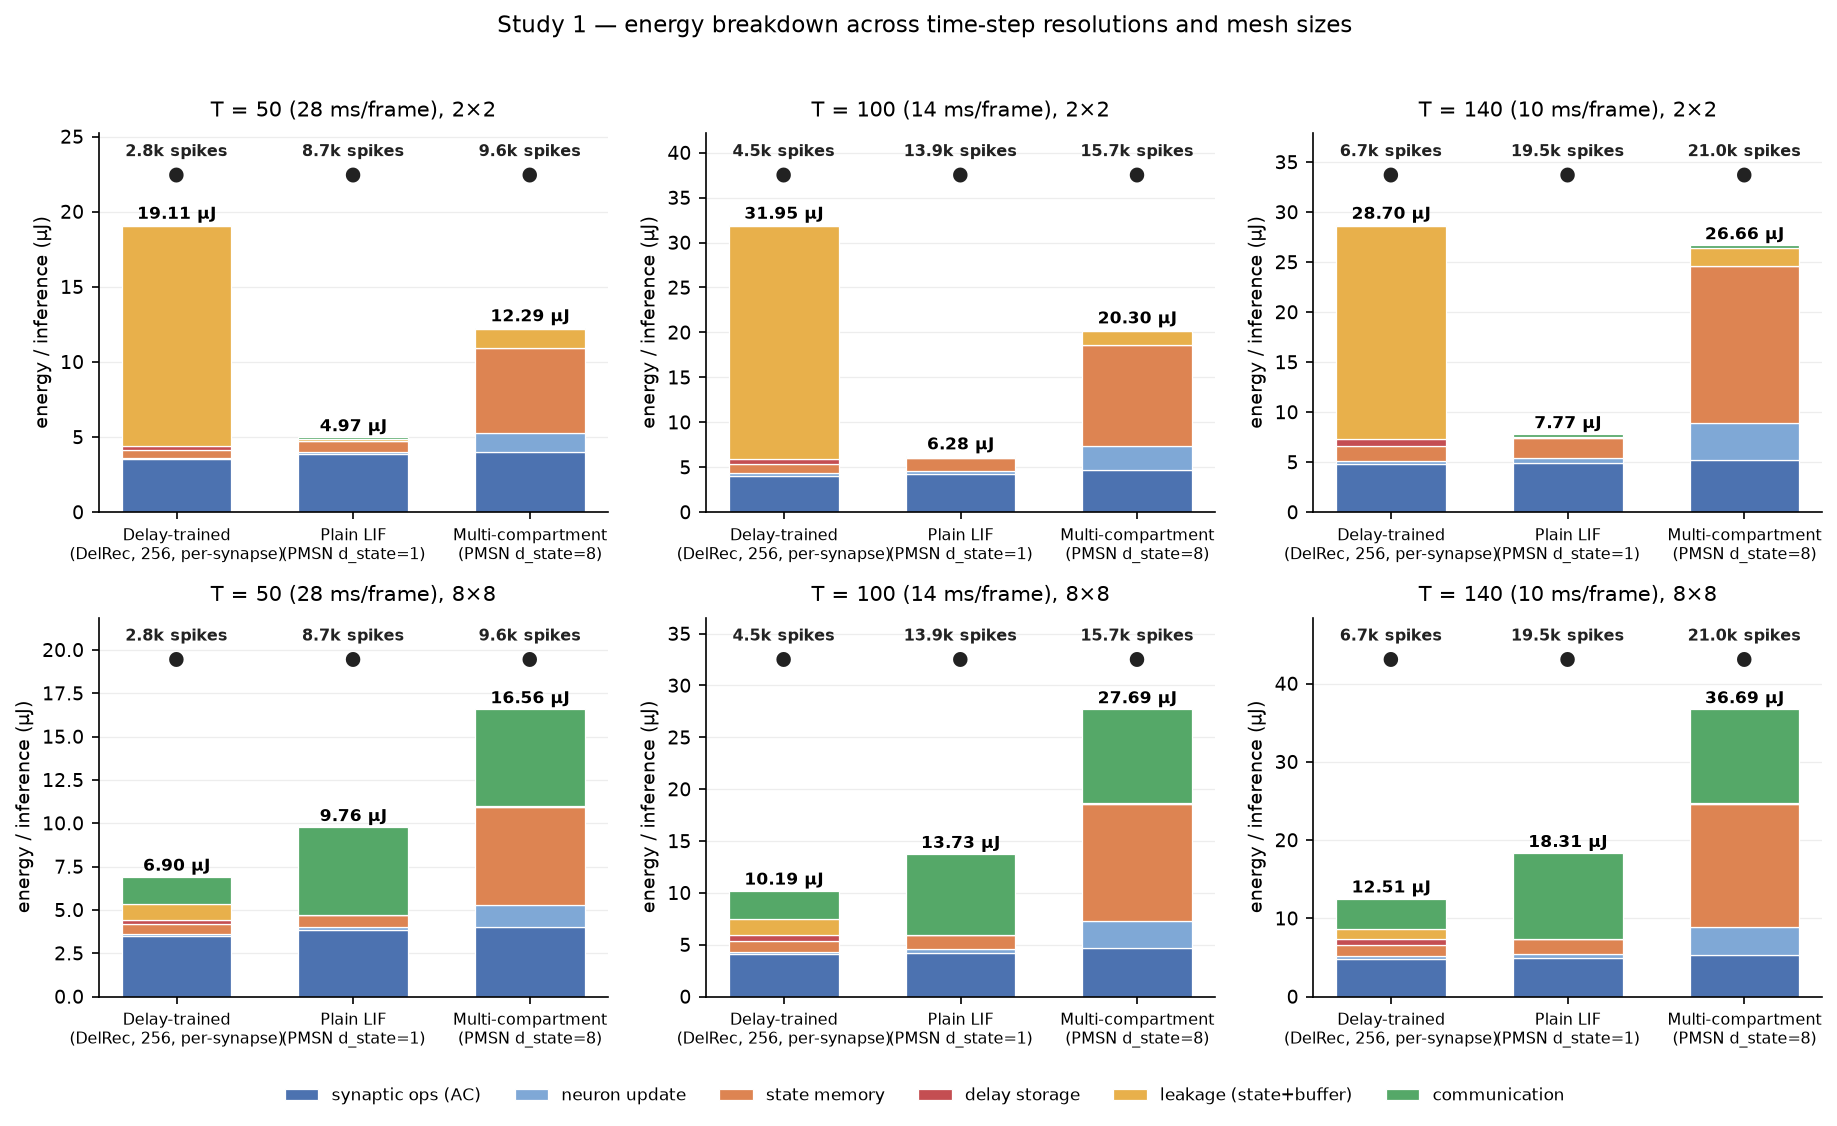
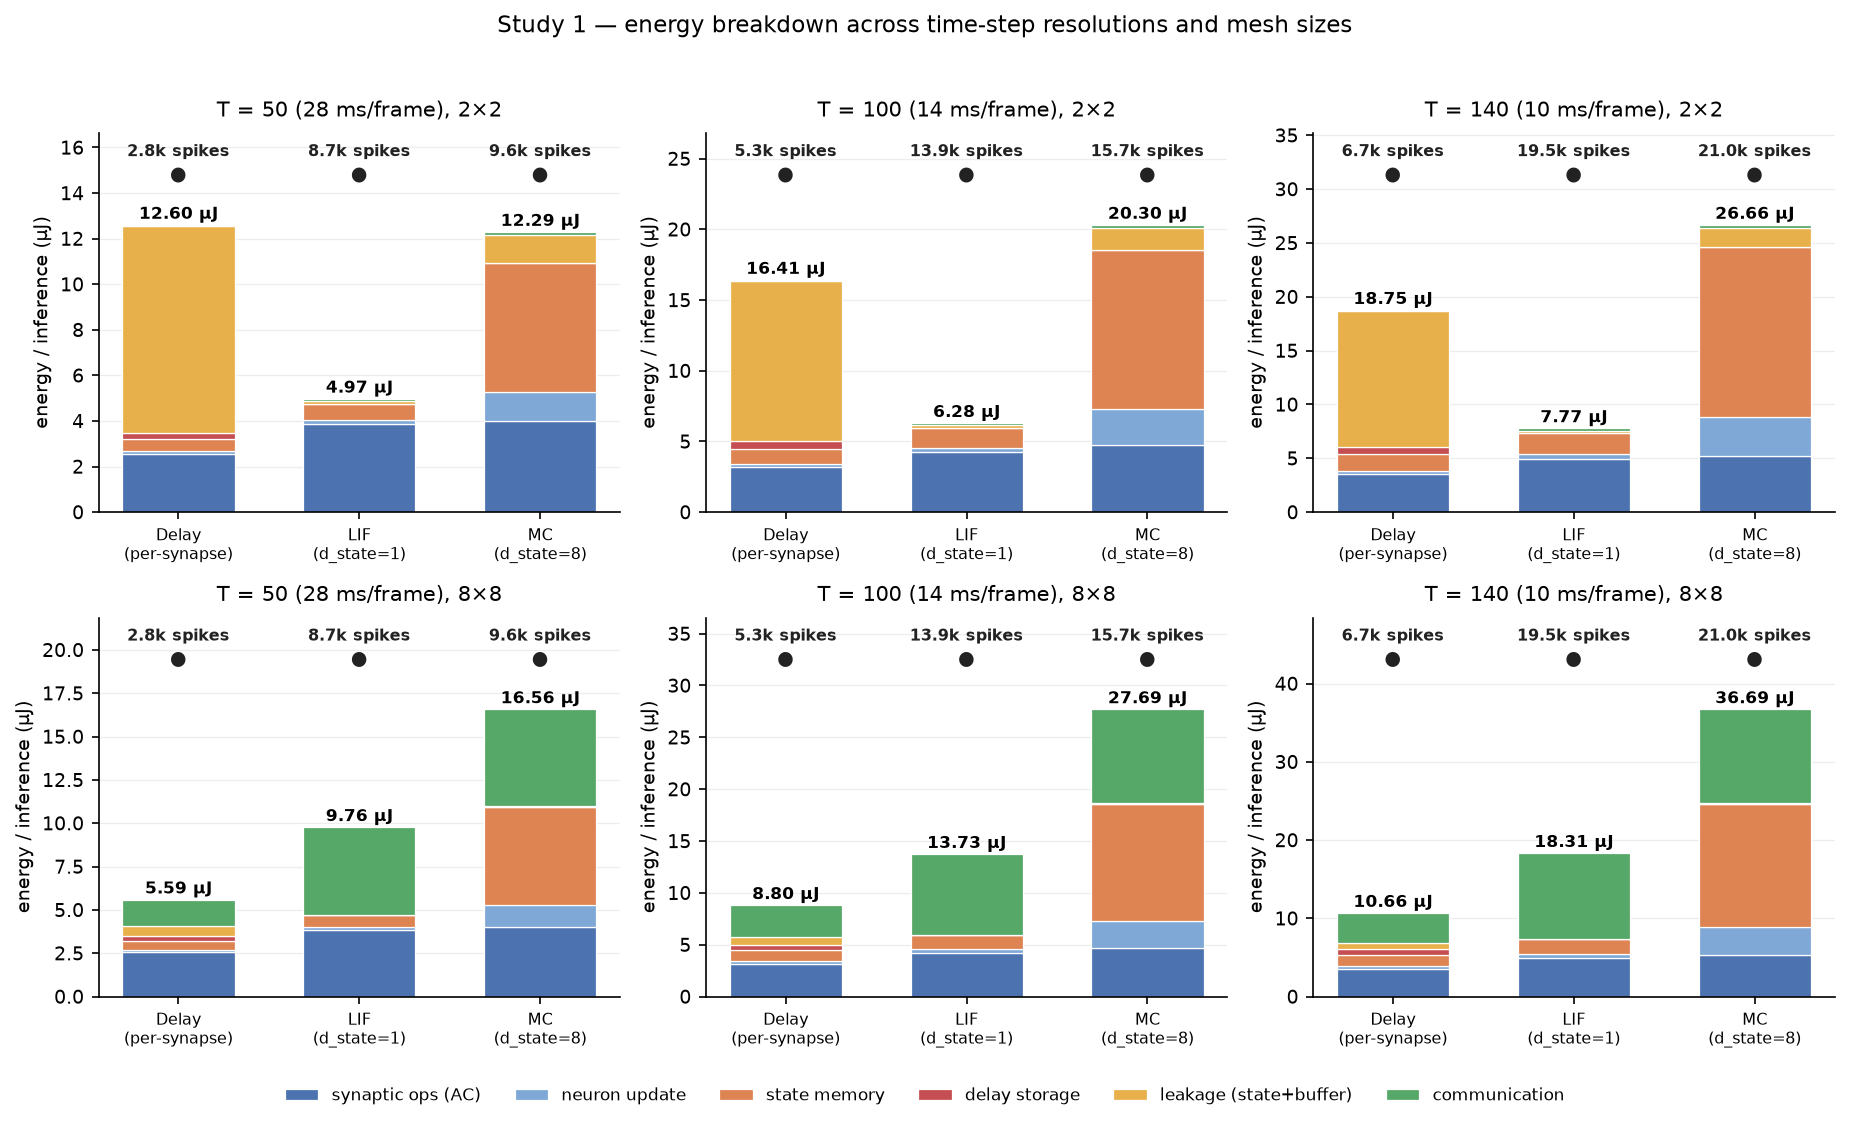
TASK 5: regenerate the figures from the corrected JSON and add the assumption caption
The three PNGs were generated on 11-22 02:54 but the results JSON was corrected by
the option-A fix on 11-23 01:03, so every figure predated the numbers it plotted.
Regenerating also surfaced and fixed two layout problems.

- Main figure: 2x2 remains the standalone panel; 4x4/8x8 stay sensitivity cases.
  Adds the eight-point caption box TASK 5.2 asks for: precision, weight regime,
  mesh choice, placement, multicast bound, parallelism factor, leakage source,
  delay-storage convention, and checkpoint selection, each pointing at its
  section.
- Grid figure: compact x labels, which used to overrun each other across the six
  subplots.
- README 11 (EN and ZH): states how each of TASK 5's three points is met, and
  records that best.pth is chosen by val_acc (train.py L211-213, L220-221), so no
  checkpoint in the report was picked by test accuracy.
- 2.88 Mbit -> 2.1 Mbit in the figure table: option A stores 65,536 x 32 bit.

diff --git a/scripts/plot_study1.py b/scripts/plot_study1.py
@@ -27,6 +27,10 @@ SHOW = {"delay": "Delay-trained\n(DelRec, 256, per-synapse)",
         "lif": "Plain LIF\n(PMSN d_state=1)",
         "mc": "Multi-compartment\n(PMSN d_state=8)"}
 SHORT = {"delay": "DL", "lif": "LIF", "mc": "MC"}
+# Compact labels for the multi-panel figure, where full names overlap.
+SHORT_FULL = {"delay": "Delay\n(per-synapse)",
+              "lif": "LIF\n(d_state=1)",
+              "mc": "MC\n(d_state=8)"}
 COLOR = {"delay": "#C44E52", "lif": "#4C72B0", "mc": "#DD8452"}
 
 # JSON energy key -> (figure part name, colour)
@@ -73,7 +77,7 @@ def load(path: pathlib.Path):
     return E, SPK, ACC, SOP
 
 
-def panel(ax, E, SPK, T, ncores, title):
+def panel(ax, E, SPK, T, ncores, title, compact=False, rotate=0):
     xs = np.arange(len(MODELS))
     bottoms = np.zeros(len(MODELS))
     for key, lab, col in PARTS:
@@ -83,7 +87,9 @@ def panel(ax, E, SPK, T, ncores, title):
         bottoms += vals
     top = float(bottoms.max())
     ax.set_xticks(xs)
-    ax.set_xticklabels([SHOW[m] for m in MODELS], fontsize=7.5)
+    labels = [SHORT_FULL[m] if compact else SHOW[m] for m in MODELS]
+    ax.set_xticklabels(labels, fontsize=7.5, rotation=rotate,
+                       ha="right" if rotate else "center")
     ax.set_ylabel("energy / inference (µJ)")
     ax.set_title(title, fontsize=10, pad=8)
     ax.set_ylim(0, top * 1.32)
@@ -121,12 +127,34 @@ def main():
                          "axes.spines.right": False, "figure.dpi": 150})
 
     # ---------- figure 1: main (T=100, 2x2) ----------
-    fig, ax = plt.subplots(figsize=(7.8, 4.8))
+    fig, ax = plt.subplots(figsize=(8.6, 5.6))
     panel(ax, E, SPK, 100, 4,
           "Study 1 — T = 100 (14 ms/frame), 2×2 mesh (4 cores)\n"
           "stacked energy per inference, with spike counts overlaid")
-    ax.legend(loc="upper center", bbox_to_anchor=(0.5, -0.14), fontsize=7.4,
+    ax.legend(loc="upper center", bbox_to_anchor=(0.5, -0.10), fontsize=7.4,
               frameon=False, ncol=3)
+
+    # White paper TASK 5.2: every assumption goes in the caption.
+    caption = (
+        "Assumptions.  (1) FP32, 32-bit weights and state; the white paper's low-precision "
+        "regime is not modelled.\n"
+        "(2) Weights resident — a synaptic operation costs only the AC arithmetic (0.9 pJ). "
+        "The SRAM-weight case is in §5.5.\n"
+        "(3) 2×2 mesh (4 cores) is the main configuration; 4×4 and 8×8 appear only as "
+        "sensitivity cases (§5.5, fig. 2).\n"
+        "(4) Sequential placement, core(i) = floor(i·n_cores/n_total); no optimisation (§8.1).\n"
+        "(5) Communication counted as a unicast upper bound, flit_hops × 3.5 pJ; spikes in the "
+        "same timestep are not merged (§8.2, §8.3).\n"
+        "(6) par = 1, i.e. one core's worth of parallelism, no literature basis (§8.4); "
+        "P_leak is an 8 MB cache value, so small-SRAM leakage is underestimated.\n"
+        "(7) Delay values are charged to 'delay storage' as 65,536 × 32 bit, not to weights "
+        "(§5.3); the spike window is 256 windows of L−1 slots.\n"
+        "(8) Checkpoints are the best-validation epoch, not the best-test epoch."
+    )
+    fig.text(0.5, -0.02, caption, ha="center", va="top", fontsize=6.6,
+             linespacing=1.5, wrap=True,
+             bbox=dict(boxstyle="round,pad=0.6", facecolor="#F7F7F7",
+                       edgecolor="#CCCCCC", linewidth=0.7))
     fig.tight_layout()
     fig.savefig(out / "study1_main_T100_2x2.png", bbox_inches="tight")
     plt.close(fig)
@@ -135,9 +163,9 @@ def main():
     fig, axes = plt.subplots(2, 3, figsize=(12.4, 7.4), sharex=False)
     for j, T in enumerate((50, 100, 140)):
         panel(axes[0, j], E, SPK, T, 4,
-              f"T = {T} ({1400/T:.0f} ms/frame), 2×2")
+              f"T = {T} ({1400/T:.0f} ms/frame), 2×2", compact=True)
         panel(axes[1, j], E, SPK, T, 64,
-              f"T = {T} ({1400/T:.0f} ms/frame), 8×8")
+              f"T = {T} ({1400/T:.0f} ms/frame), 8×8", compact=True)
     h, l = axes[0, 0].get_legend_handles_labels()
     fig.legend(h, l, loc="lower center", ncol=6, fontsize=8, frameon=False,
                bbox_to_anchor=(0.5, -0.015))

diff --git a/README.md b/README.md
@@ -1054,9 +1054,23 @@ All three are generated by `scripts/plot_study1.py`, which reads
 
 | File | Question it answers |
 |---|---|
-| `figs/study1_main_T100_2x2.png` | The white paper's requested form: stacked energy breakdown of the three models with spike counts overlaid (T=100, 2×2). The delay bar is dominated by leakage from its 2.88 Mbit delay table |
+| `figs/study1_main_T100_2x2.png` | The white paper's requested form: stacked energy breakdown of the three models with spike counts overlaid (T=100, 2×2). The delay bar is dominated by leakage from its 2.1 Mbit delay table |
 | `figs/study1_grid_resolution_mesh.png` | How resolution and mesh size change the energy composition (3 resolutions × 2 meshes) |
-| `figs/study1_ranking_flip.png` | Ranking by the three estimates at each resolution (2×2), marking which pair agrees — at T=50 and T=140 the delay network ranks cheapest on all three, at T=100 it ranks most expensive |
+| `figs/study1_ranking_flip.png` | Ranking by the three estimates at each resolution (2×2), marking which pair agrees — at T=50 the delay network ranks cheapest on spike count but most expensive on energy, at T=100 it ranks most expensive on energy, at T=140 the three estimates agree |
+
+**TASK 5 is discharged as follows.**
+
+1. **2×2 is the main figure.** `study1_main_T100_2x2.png` is the standalone panel at T=100 on four cores.
+   4×4 and 8×8 appear only in `study1_grid_resolution_mesh.png` (the 8×8 row) and in the §5.5 table as
+   sensitivity cases; no conclusion rests on them.
+2. **Every assumption is in the caption.** The main figure carries an eight-point caption box below the
+   plot, covering precision, the weight regime, the mesh choice, placement, the multicast bound, the
+   parallelism factor, the leakage source, the delay-storage convention, and how checkpoints were
+   chosen. Each item points at the section that discusses it.
+3. **Checkpoints are selected by validation accuracy.** `experiments/train.py` saves `best.pth` when
+   `val_acc >= best_val_acc` (L211-213) and then evaluates that checkpoint on the test split (L220-221,
+   commented *"final test on the best validation checkpoint"*). **No checkpoint anywhere in this report
+   was chosen by test accuracy.**
 
 ---
 

diff --git a/README.zh.md b/README.zh.md
@@ -882,9 +882,15 @@ checkpoints/
 
 | 文件 | 回答什么问题 |
 |---|---|
-| `figs/study1_main_T100_2x2.png` | 白皮书要求的形态：三个模型的堆叠能量分解，叠加脉冲数（T=100，2×2）。delay 那一柱几乎全被其 2.88 Mbit 延迟表的漏电占据 |
+| `figs/study1_main_T100_2x2.png` | 白皮书要求的形态：三个模型的堆叠能量分解，叠加脉冲数（T=100，2×2）。delay 那一柱几乎全被其 2.1 Mbit 延迟表的漏电占据 |
 | `figs/study1_grid_resolution_mesh.png` | 分辨率与 mesh 大小如何改变能量构成（3 个分辨率 × 2 个 mesh） |
-| `figs/study1_ranking_flip.png` | 各分辨率（2×2）下三种估计的排序，标出哪一对一致——T=50 与 T=140 时延迟网络在三种估计下都最便宜，T=100 时最贵 |
+| `figs/study1_ranking_flip.png` | 各分辨率（2×2）下三种估计的排序，标出哪一对一致——T=50 时延迟网络按脉冲数最便宜却按能量最贵，T=100 时按能量最贵，T=140 时三种估计一致 |
+
+**TASK 5 的三条要求逐条落实如下。**
+
+1. **主图用 2×2。** `study1_main_T100_2x2.png` 是 T=100、四个核的单幅面板。4×4 与 8×8 只出现在 `study1_grid_resolution_mesh.png` 的 8×8 行和 §5.5 的表格里，作为敏感性案例；没有任何结论依赖它们。
+2. **每个假设都写进图注。** 主图下方有一个八条的图注框，覆盖精度、权重口径、mesh 选择、placement、多播上界、并行度、漏电来源、延迟存储口径，以及 checkpoint 的挑选方式。每一条都指向讨论它的章节。
+3. **checkpoint 按验证精度选择。** `experiments/train.py` 在 `val_acc >= best_val_acc` 时保存 `best.pth`（L211-213），随后用该 checkpoint 在测试集上评估（L220-221，注释写明 *"final test on the best validation checkpoint"*）。**本报告中没有任何 checkpoint 是按测试精度挑选的。**
 
 ---
 
